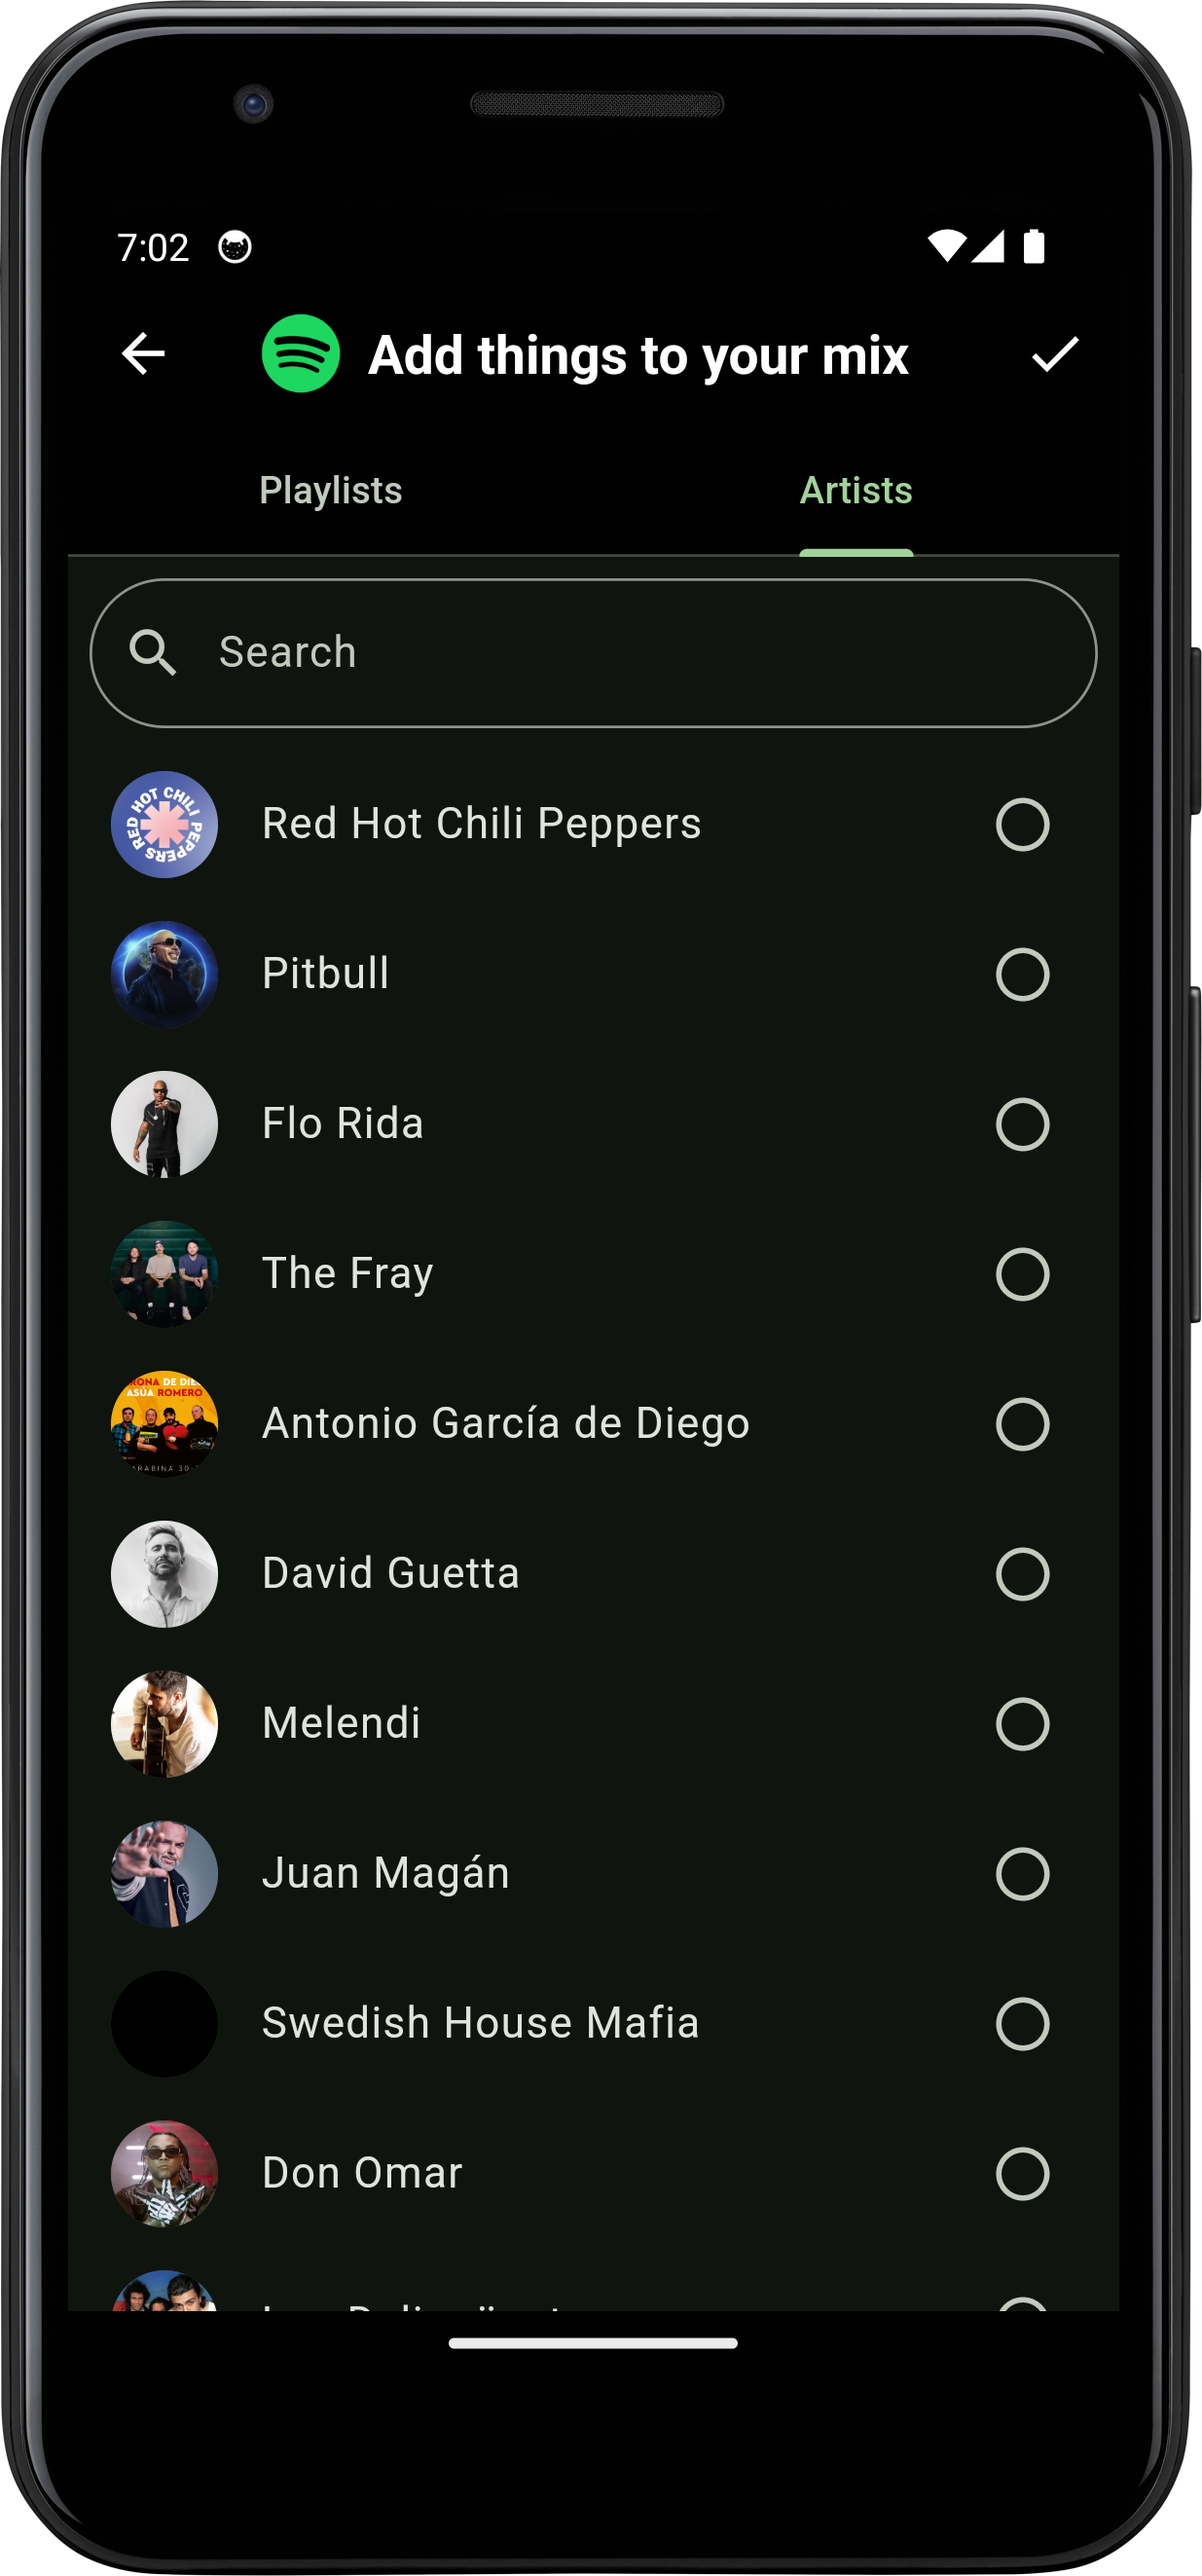
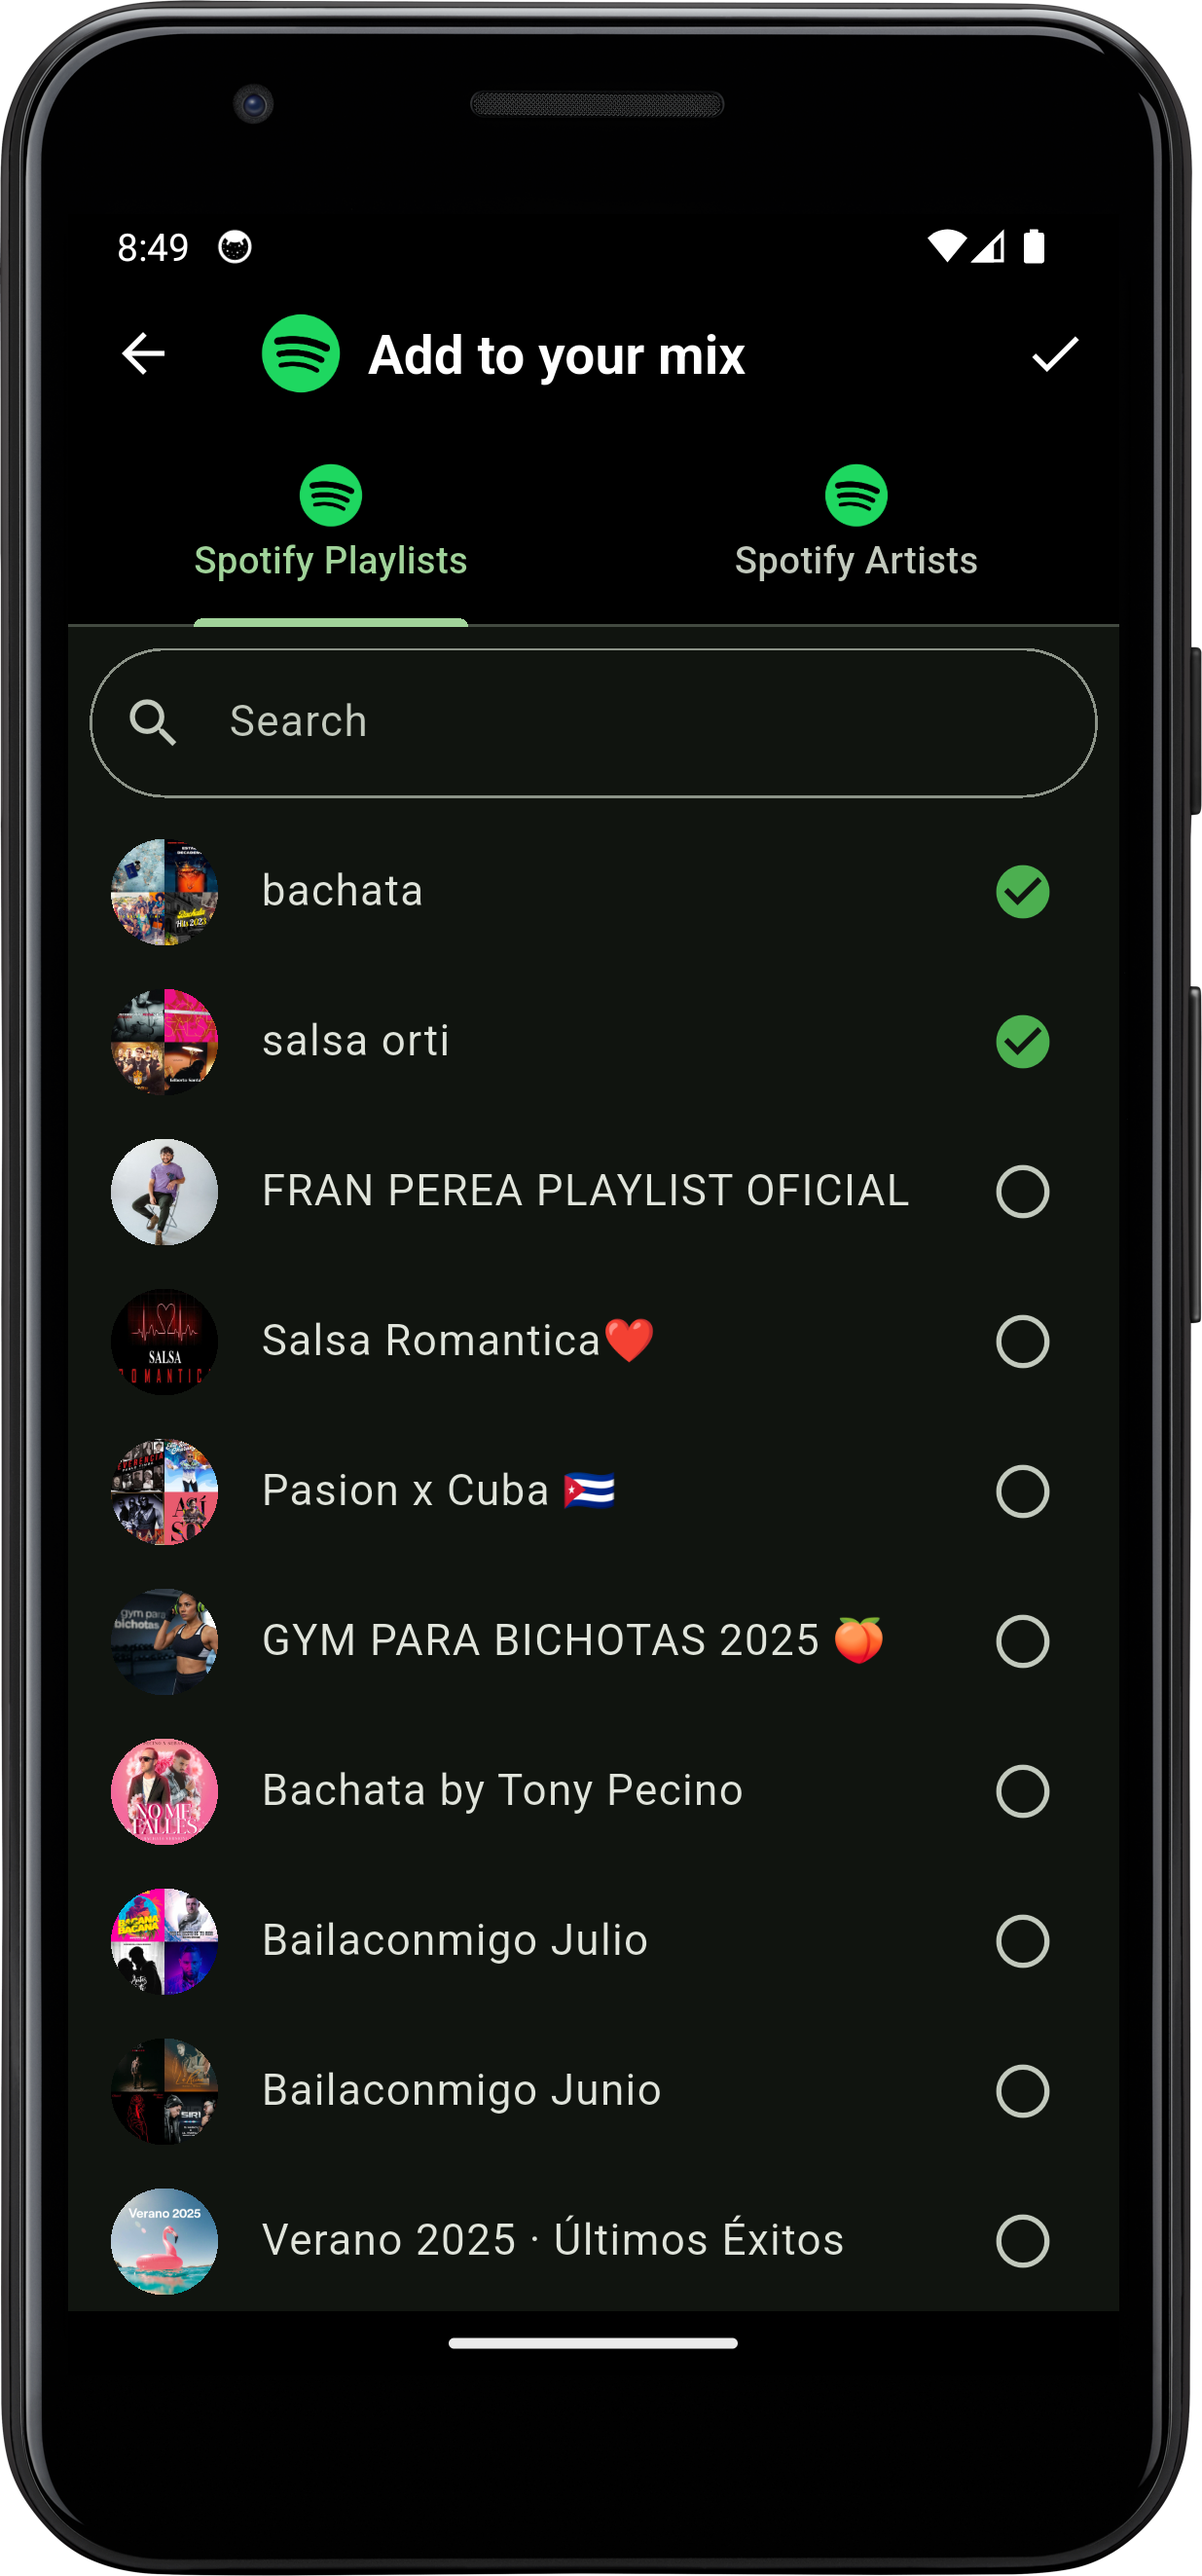
add elements for request quota extension in Spotify

diff --git a/app/lib/items_selector.dart b/app/lib/items_selector.dart
@@ -53,7 +53,7 @@ class _ItemsSelectorState extends State<ItemsSelector> {
                 height: 30,
               ),
               const SizedBox(width: 10),
-              const Text('Add things to your mix'),
+              const Text('Add to your mix'),
             ],
           ),
           actions: [
